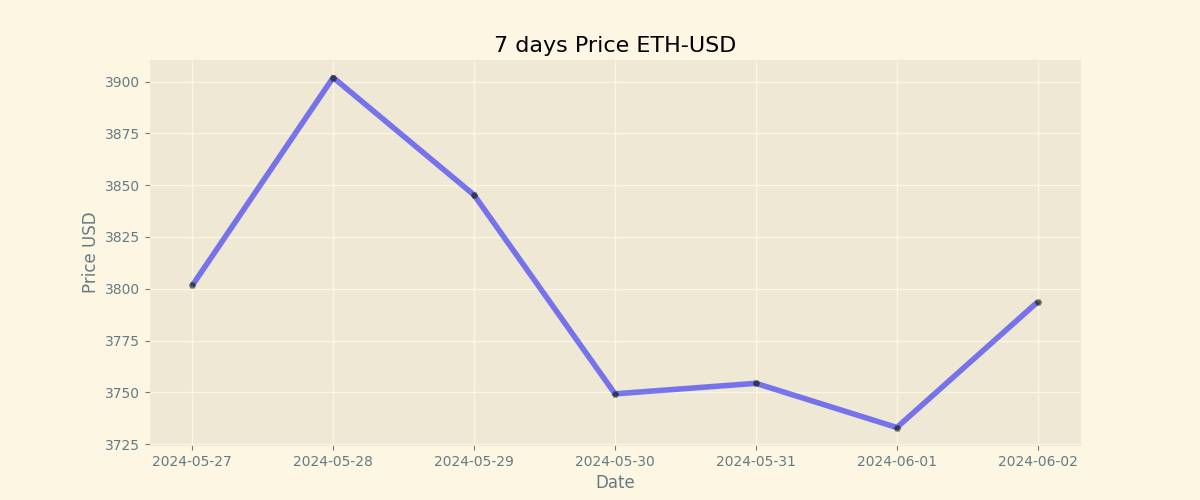
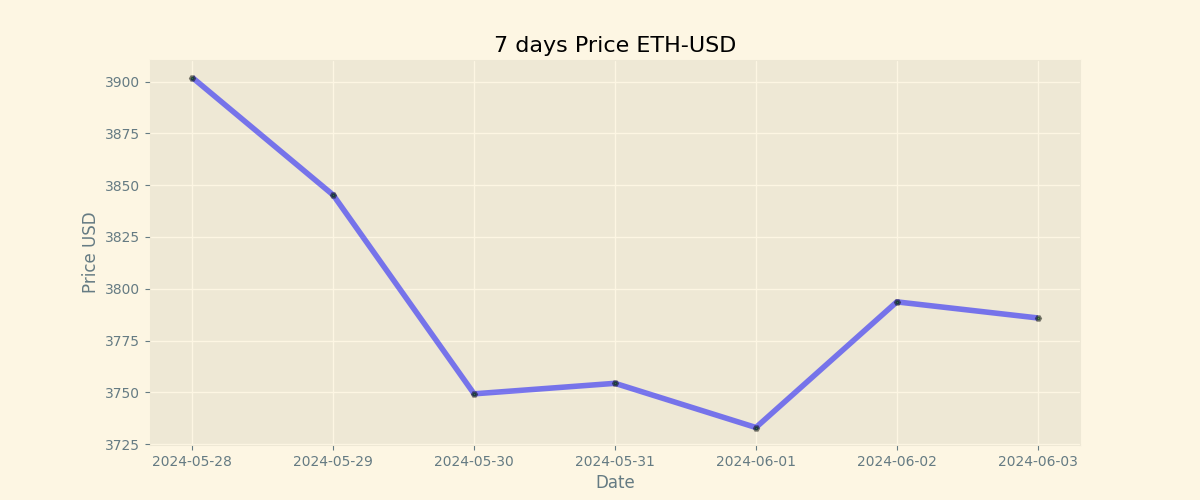
Duty Updates 2024-06-03

diff --git a/README.md b/README.md
@@ -9,8 +9,8 @@
 
 | Currency | Price           |
 | -------- | --------------- |
-| **BTC**  | **$ 68312.52** |
-| **ETH**  | **$ 3793.68** |
+| **BTC**  | **$ 67600.16** |
+| **ETH**  | **$ 3785.92** |
 
 ## BTC chart
 
